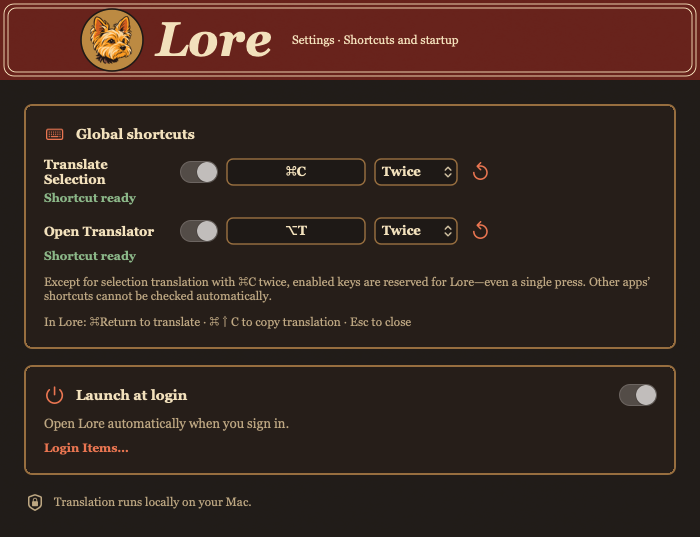
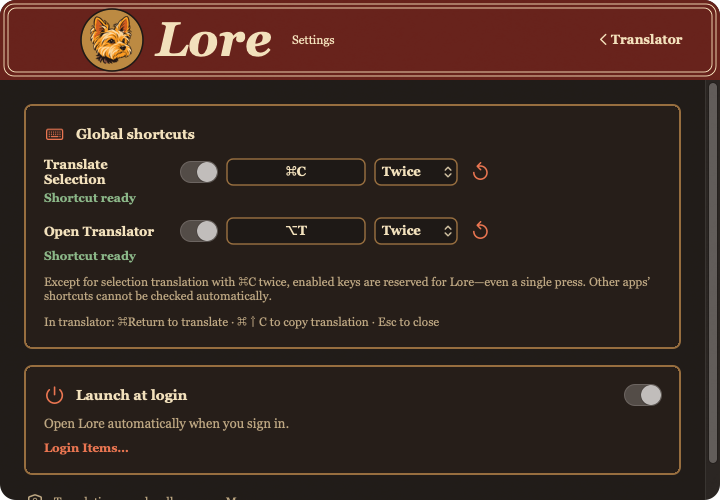
Refresh PR captures for settings navigation

diff --git a/design/screenshots/README.md b/design/screenshots/README.md
@@ -1,9 +1,9 @@
 # Implemented UI captures
 
 These unmodified PNGs are AppKit content-view captures from the macOS CI run for
-implementation commit `28e2dc139d82f19c4abe5868574dc7f09142371d`:
-[run 43230269637](https://github.com/my-name-is-yu/Lore/actions/runs/43230269637),
-artifact `panel-view-captures` (ID `13948964337`).
+implementation commit `4c37cc4cecef332268052715afb9a33883dd0b94`:
+[run 43235555494](https://github.com/my-name-is-yu/Lore/actions/runs/43235555494),
+artifact `panel-view-captures` (ID `13953335272`).
 
 | File | Artifact source |
 | --- | --- |
@@ -15,3 +15,7 @@ artifact `panel-view-captures` (ID `13948964337`).
 The translation captures include the shared hard shadows on Translate, Copy and
 Swap. These are model-free smoke-test views, not full desktop screenshots; OS
 titlebar overlays and native window buttons are outside the captures.
+
+Settings captures show the same 720×500pt window after navigating from the
+translator, with the Translator back action in the fixed header and the body
+scrolling below it.
